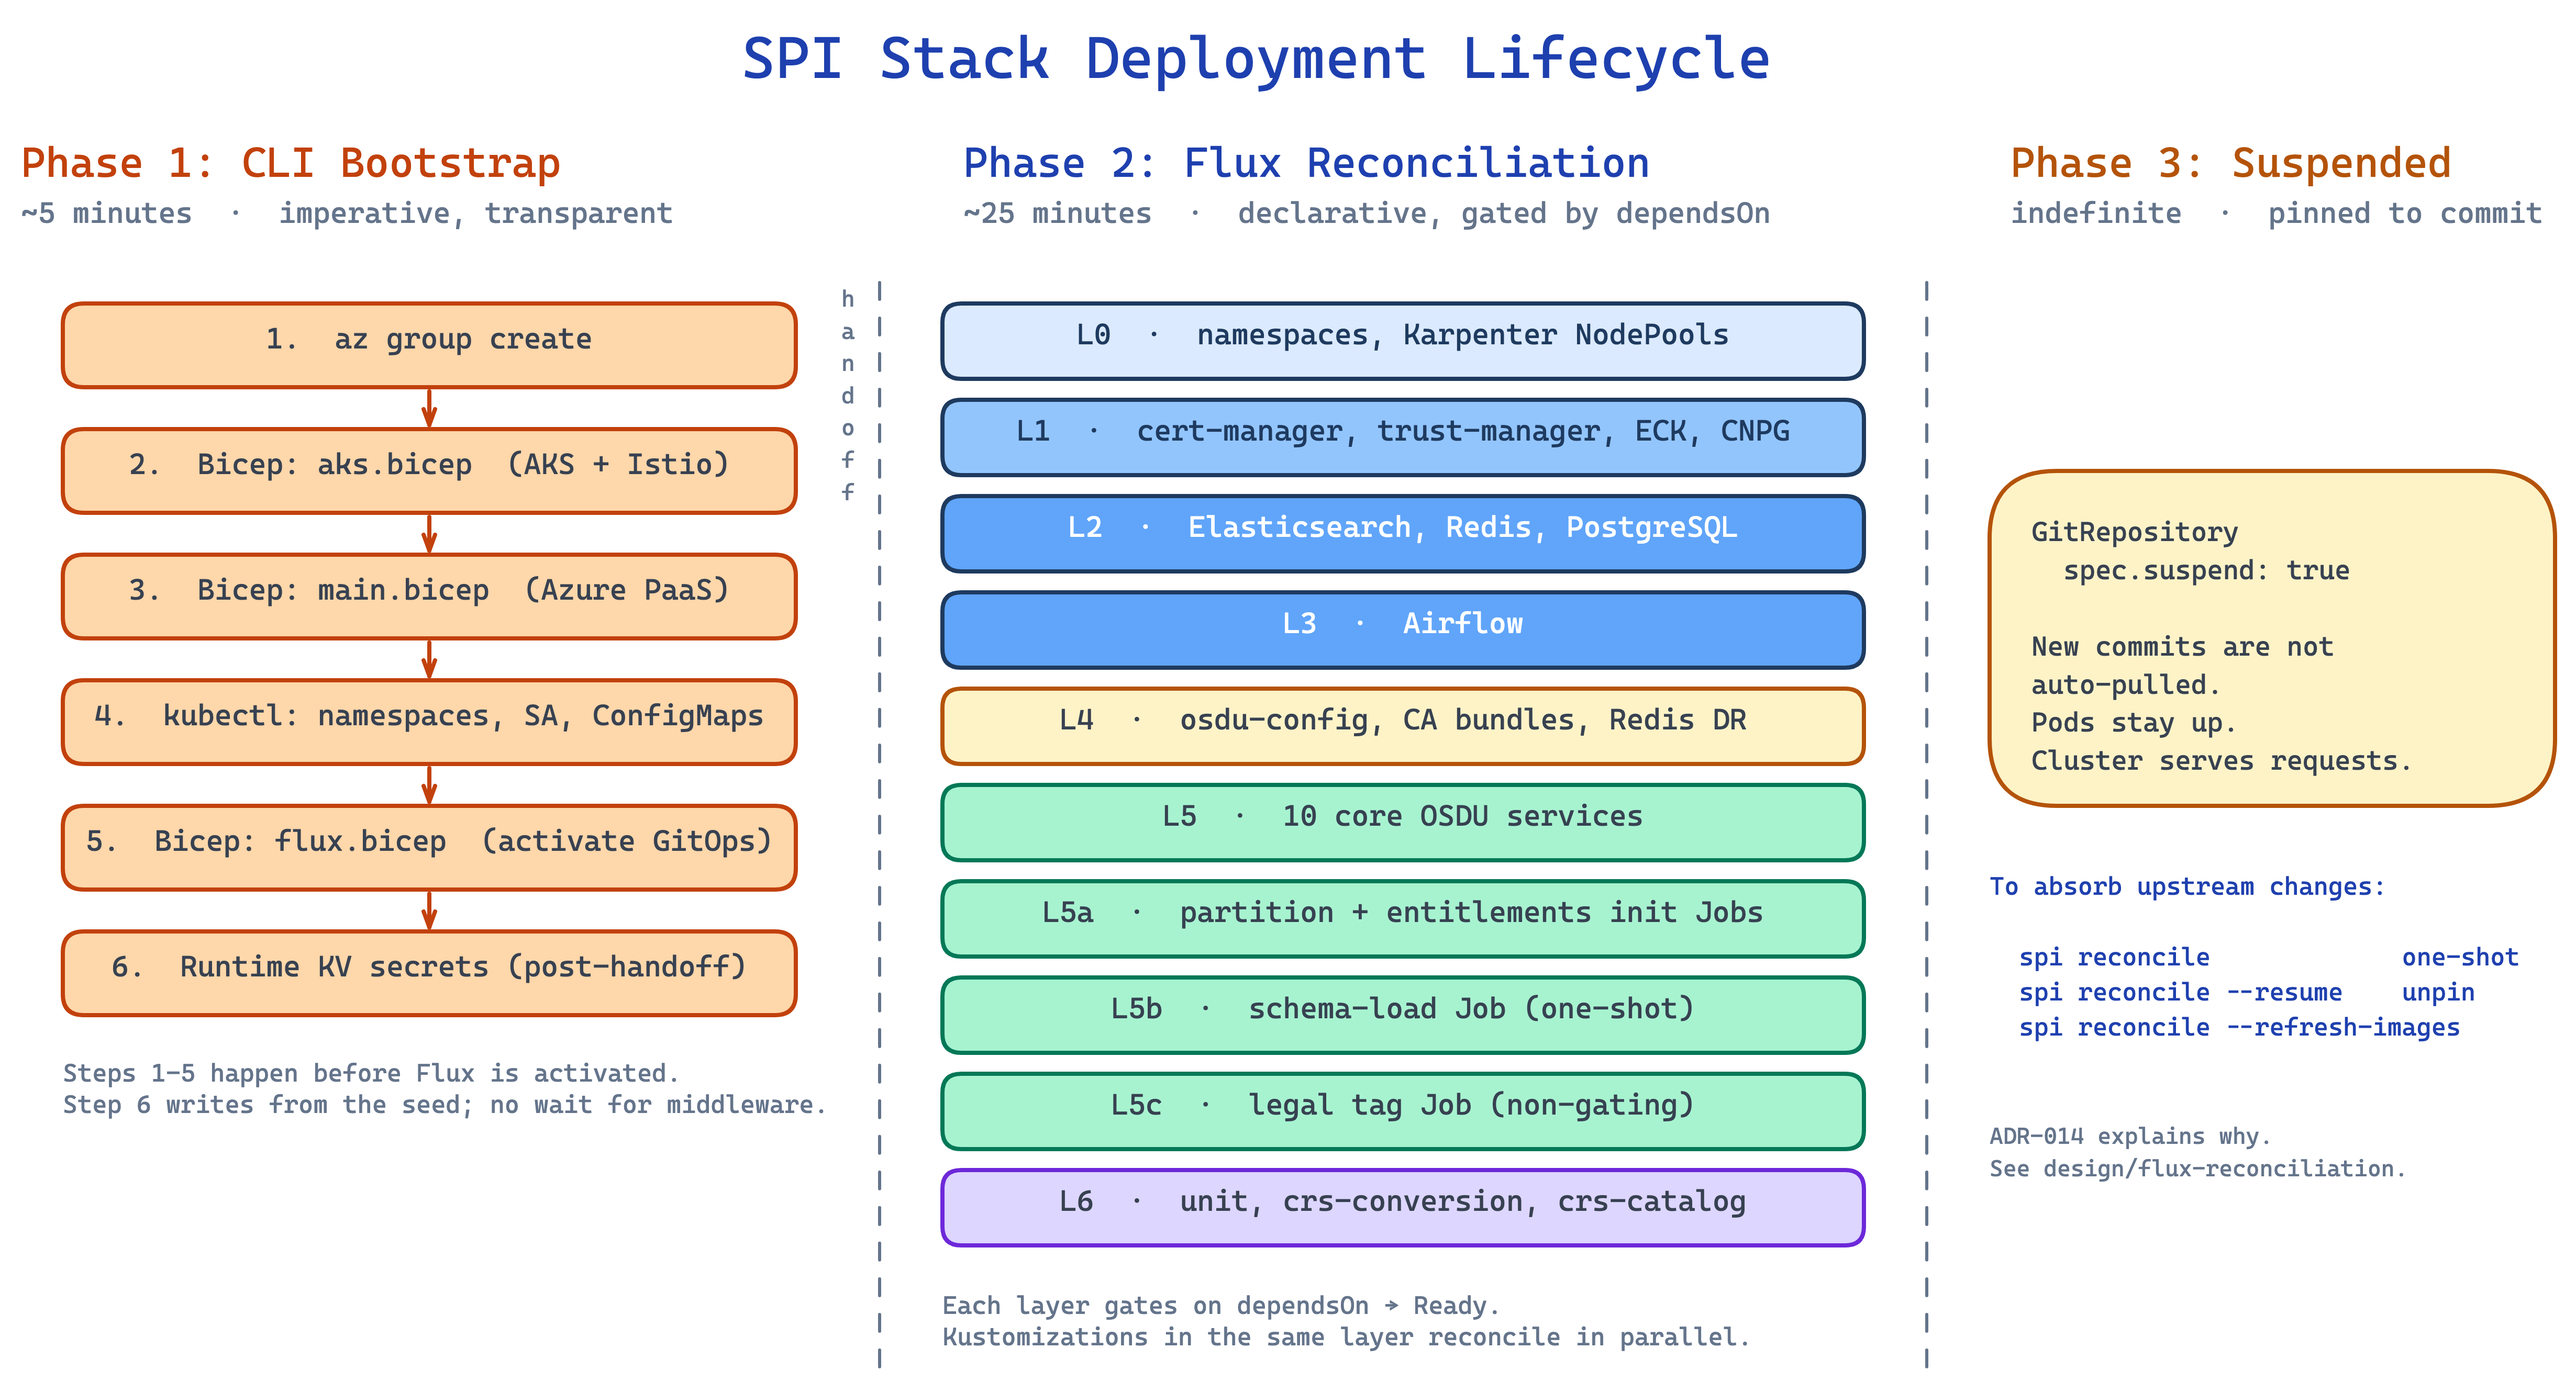
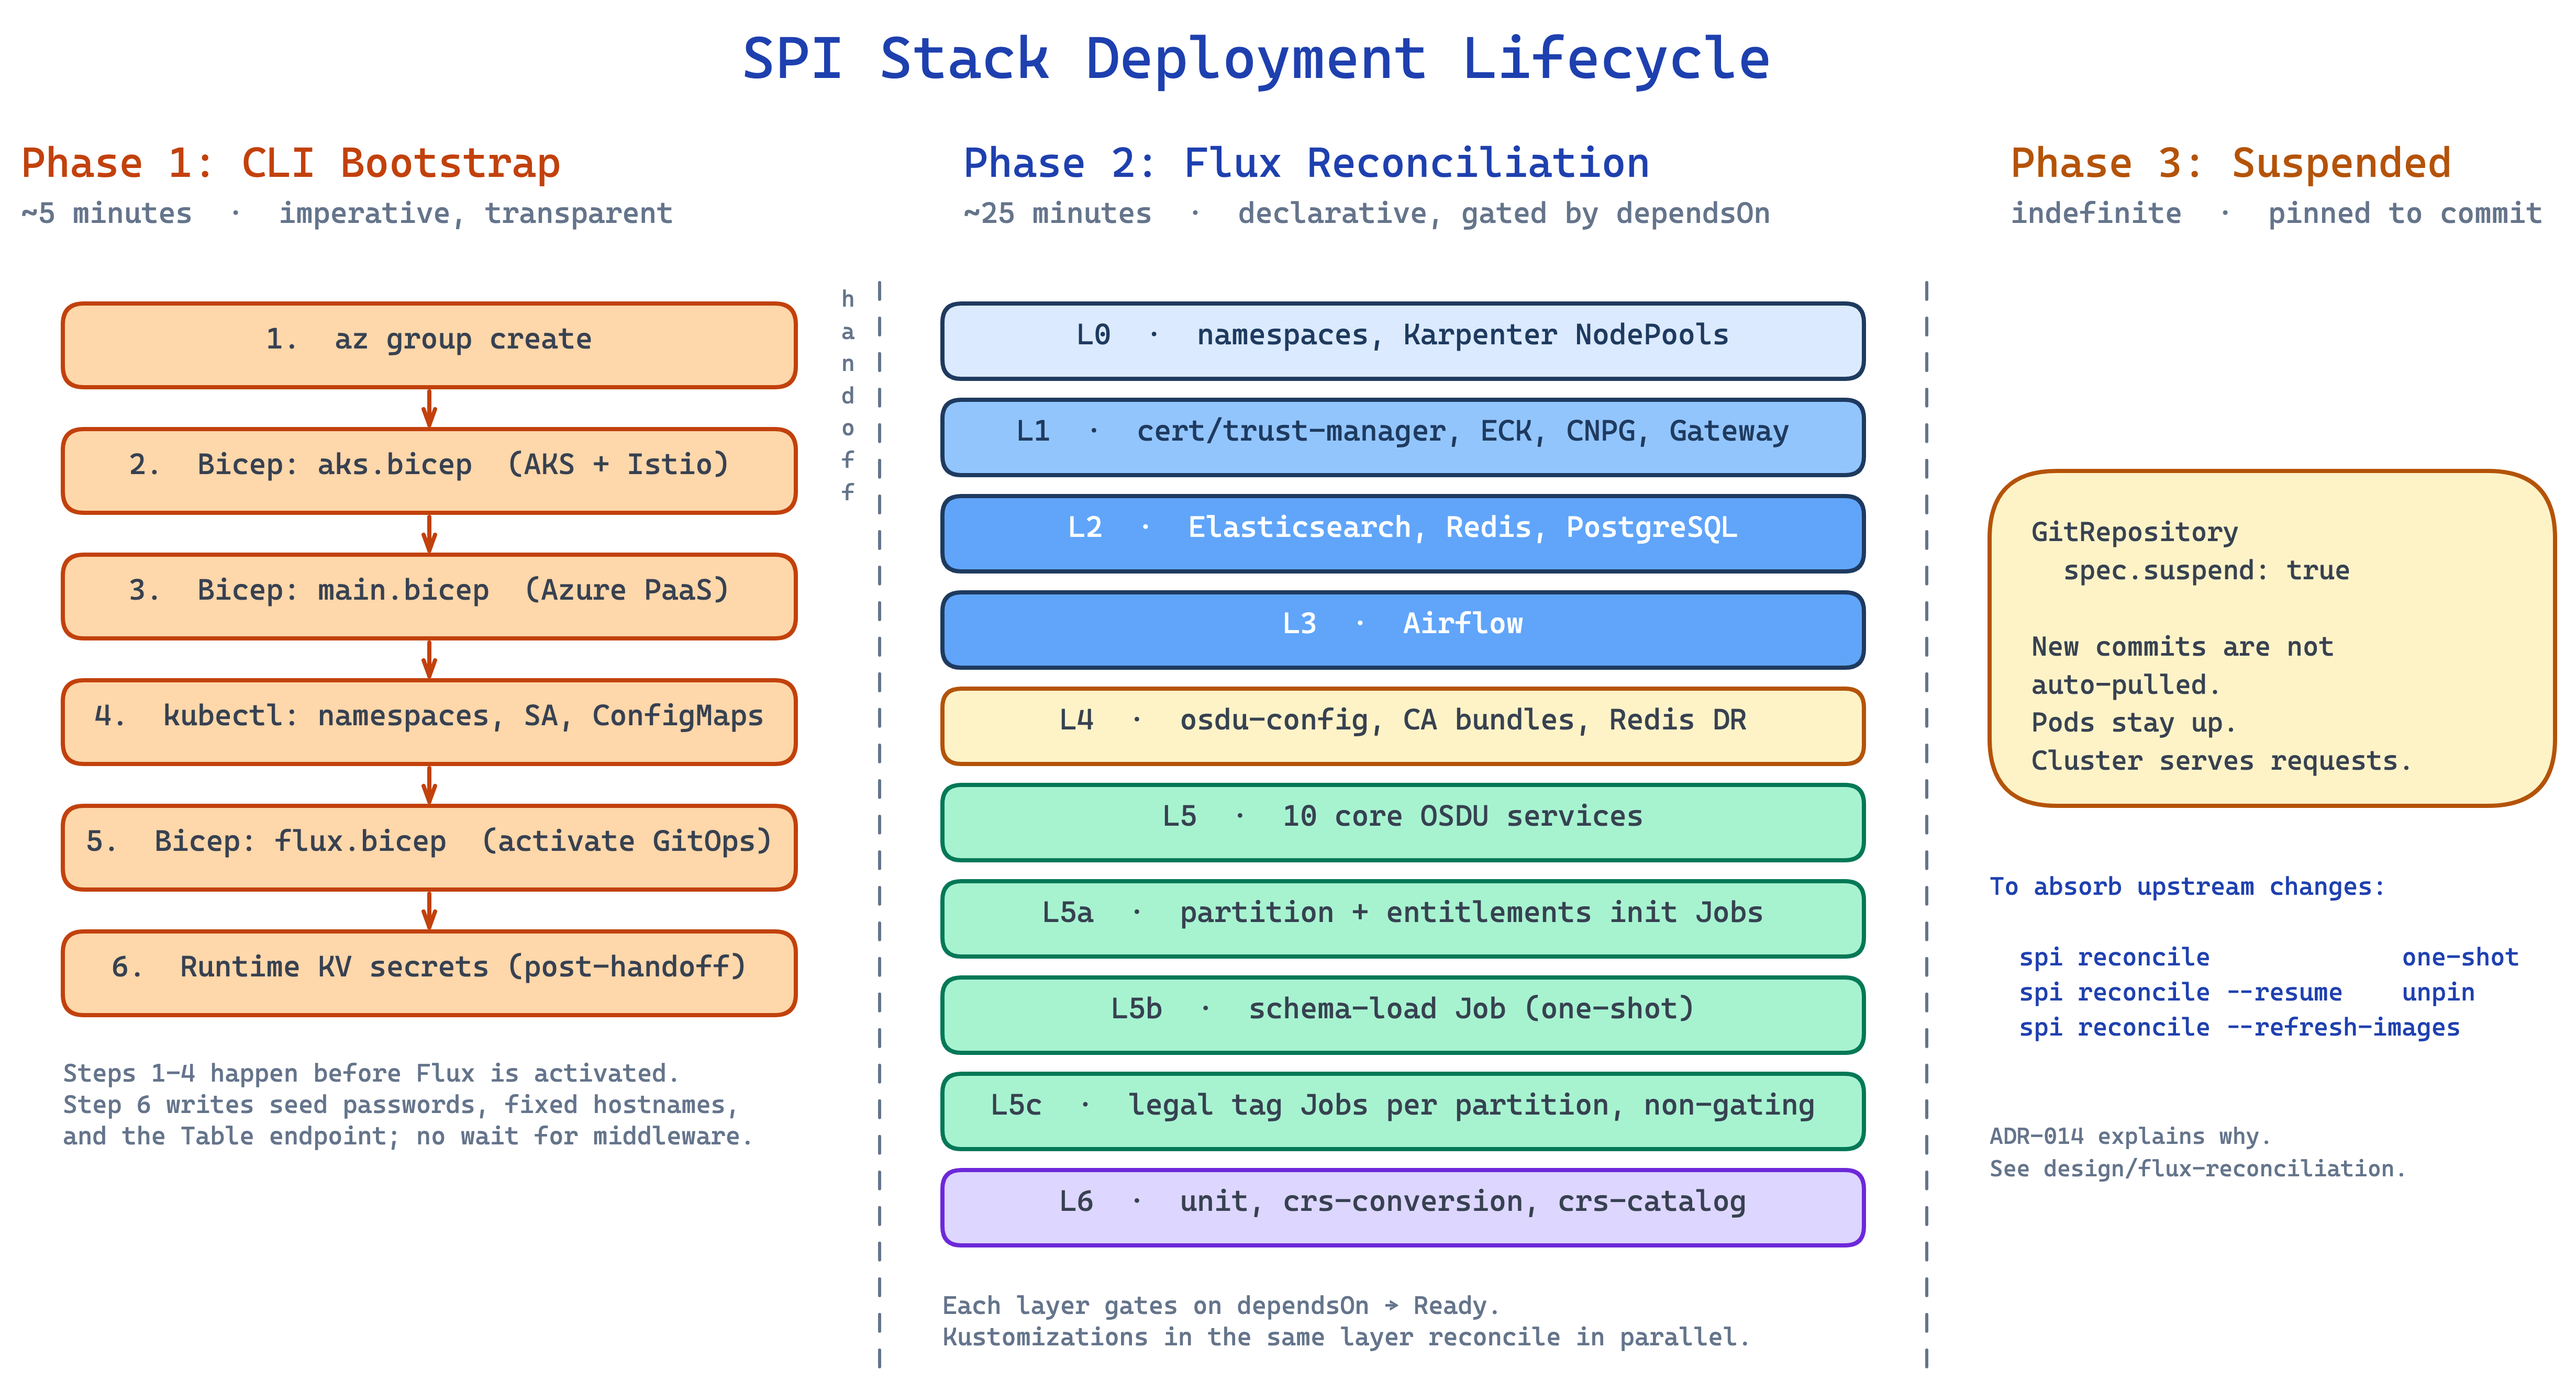
docs: name every runtime Key Vault secret source and restore Gateway at Layer 1
The CLI writes seed passwords, fixed in-cluster hostnames, and the Table
endpoint derived from the common Storage account; architecture.md, the
Bicep design doc, and both diagrams now say so. The lifecycle diagram
puts the Gateway back at Layer 1, where the ingress tree's spi-gateway-tls
reconciles it, and shows the legal-tag Jobs as one per partition.

diff --git a/docs/architecture.md b/docs/architecture.md
@@ -13,7 +13,7 @@ SPI Stack deploys the OSDU platform on Azure with a hybrid provisioning model: B
 
 SPI Stack has three control planes working together:
 
-1. **The `spi` CLI** bootstraps the environment. It creates the resource group, submits Bicep deployments for the cluster (`infra/aks.bicep`) and the rest of the Azure PaaS surface (`infra/main.bicep`), bootstraps the cluster (namespaces, StorageClasses, ServiceAccount, `osdu-config` ConfigMap), submits a third Bicep deployment (`infra/flux.bicep`) that activates the AKS Flux extension, then writes a small set of runtime Key Vault secrets from the generated middleware seed.
+1. **The `spi` CLI** bootstraps the environment. It creates the resource group, submits Bicep deployments for the cluster (`infra/aks.bicep`) and the rest of the Azure PaaS surface (`infra/main.bicep`), bootstraps the cluster (namespaces, StorageClasses, ServiceAccount, `osdu-config` ConfigMap), submits a third Bicep deployment (`infra/flux.bicep`) that activates the AKS Flux extension, then writes a small set of runtime Key Vault secrets: seed passwords, fixed in-cluster hostnames, and the Table storage endpoint.
 2. **Flux CD** manages desired-state reconciliation. It watches this Git repository and the OCI chart registry, and continuously converges the cluster to match.
 3. **Kubernetes operators** (ECK, CNPG, cert-manager, trust-manager) manage the lifecycle of individual middleware systems beneath the Flux layer.
 
@@ -35,7 +35,7 @@ This project uses a **GitOps + bootstrap** model (see [ADR-008](decisions/008-bi
    - Provision the AKS cluster and all Azure PaaS resources via Bicep.
    - Bootstrap the cluster with namespaces, StorageClasses, ServiceAccount, and the `osdu-config` ConfigMap.
    - Activate the AKS Flux extension (also declared in Bicep).
-   - Write runtime Key Vault secrets from the generated seed passwords, without waiting for middleware.
+   - Write runtime Key Vault secrets (seed passwords, fixed in-cluster hostnames, the Table storage endpoint) without waiting for middleware.
 2. Flux then owns steady-state reconciliation for everything else.
 
 This keeps the in-cluster graph clean, while accepting that Azure infrastructure must land imperatively before Flux can start.

diff --git a/docs/design/bicep-architecture.md b/docs/design/bicep-architecture.md
@@ -59,7 +59,7 @@ Five things Bicep cannot or will not do; the CLI handles them with `az`:
 2. **Soft-delete Key Vault recovery.** `az keyvault list-deleted | jq` + `az keyvault recover`. ARM cannot branch on a live query, so the CLI checks before submitting `main.bicep` and runs `recover` if needed.
 3. **`az aks get-credentials`.** Kubeconfig merge is a client-side operation, not a resource.
 4. **`az aks mesh enable-istio-cni`.** The resource provider rejects `proxyRedirectionMechanism` at cluster creation. The CLI enables CNI chaining after `aks.bicep` lands and skips the call when the cluster already reports `CNIChaining`.
-5. **Runtime Key Vault secrets.** The in-cluster middleware secrets (`redis-*`, `{p}-elastic-*`) are not declarable in Bicep. The CLI writes them with `az keyvault secret set` from the generated seed passwords, with no wait for middleware Ready, since the values are known once infra is up. See [ADR-010](../decisions/010-keyvault-secret-management.md) and the [secret lifecycle](secret-lifecycle.md) doc for the full handoff.
+5. **Runtime Key Vault secrets.** The middleware secrets (`redis-*`, `{p}-elastic-*`) and `tbl-storage-endpoint` are not declared in Bicep. The CLI writes them with `az keyvault secret set` from the generated seed passwords, fixed in-cluster hostnames, and the common Storage account name, with no wait for middleware Ready, since every value is known once infra is up. See [ADR-010](../decisions/010-keyvault-secret-management.md) and the [secret lifecycle](secret-lifecycle.md) doc for the full handoff.
 
 Adding a seam is a smell; confirm first that the resource provider rejects the setting declaratively.
 
